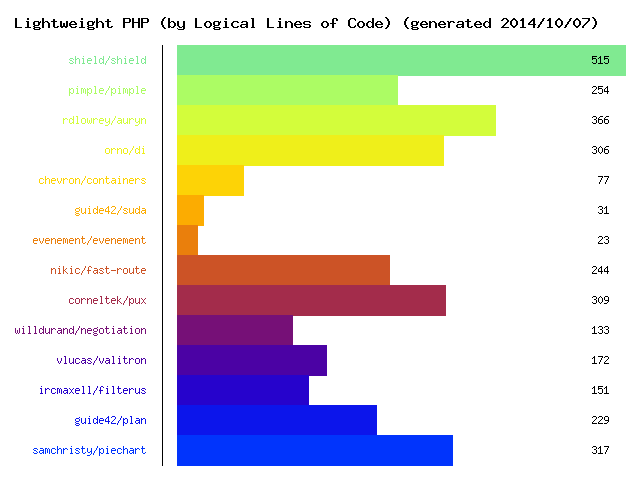
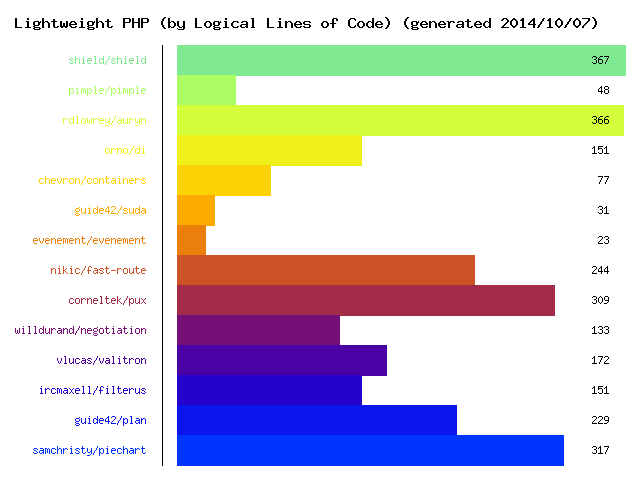
[Weight] Ignore files finished in Test

diff --git a/weight.php b/weight.php
@@ -94,7 +94,7 @@ class Weight
         $weight = 0;
 
         $iter = new RecursiveIteratorIterator(new \RecursiveDirectoryIterator($dirname));
-        $iter = new RegexIterator($iter, '/^.+\.php$/i', RecursiveRegexIterator::GET_MATCH);
+        $iter = new RegexIterator($iter, '/^((?!Test).)+\.php$/i', RecursiveRegexIterator::GET_MATCH);
 
         foreach ($iter as $filematch) {
             $weight += $this->weightFile($filematch[0]);
